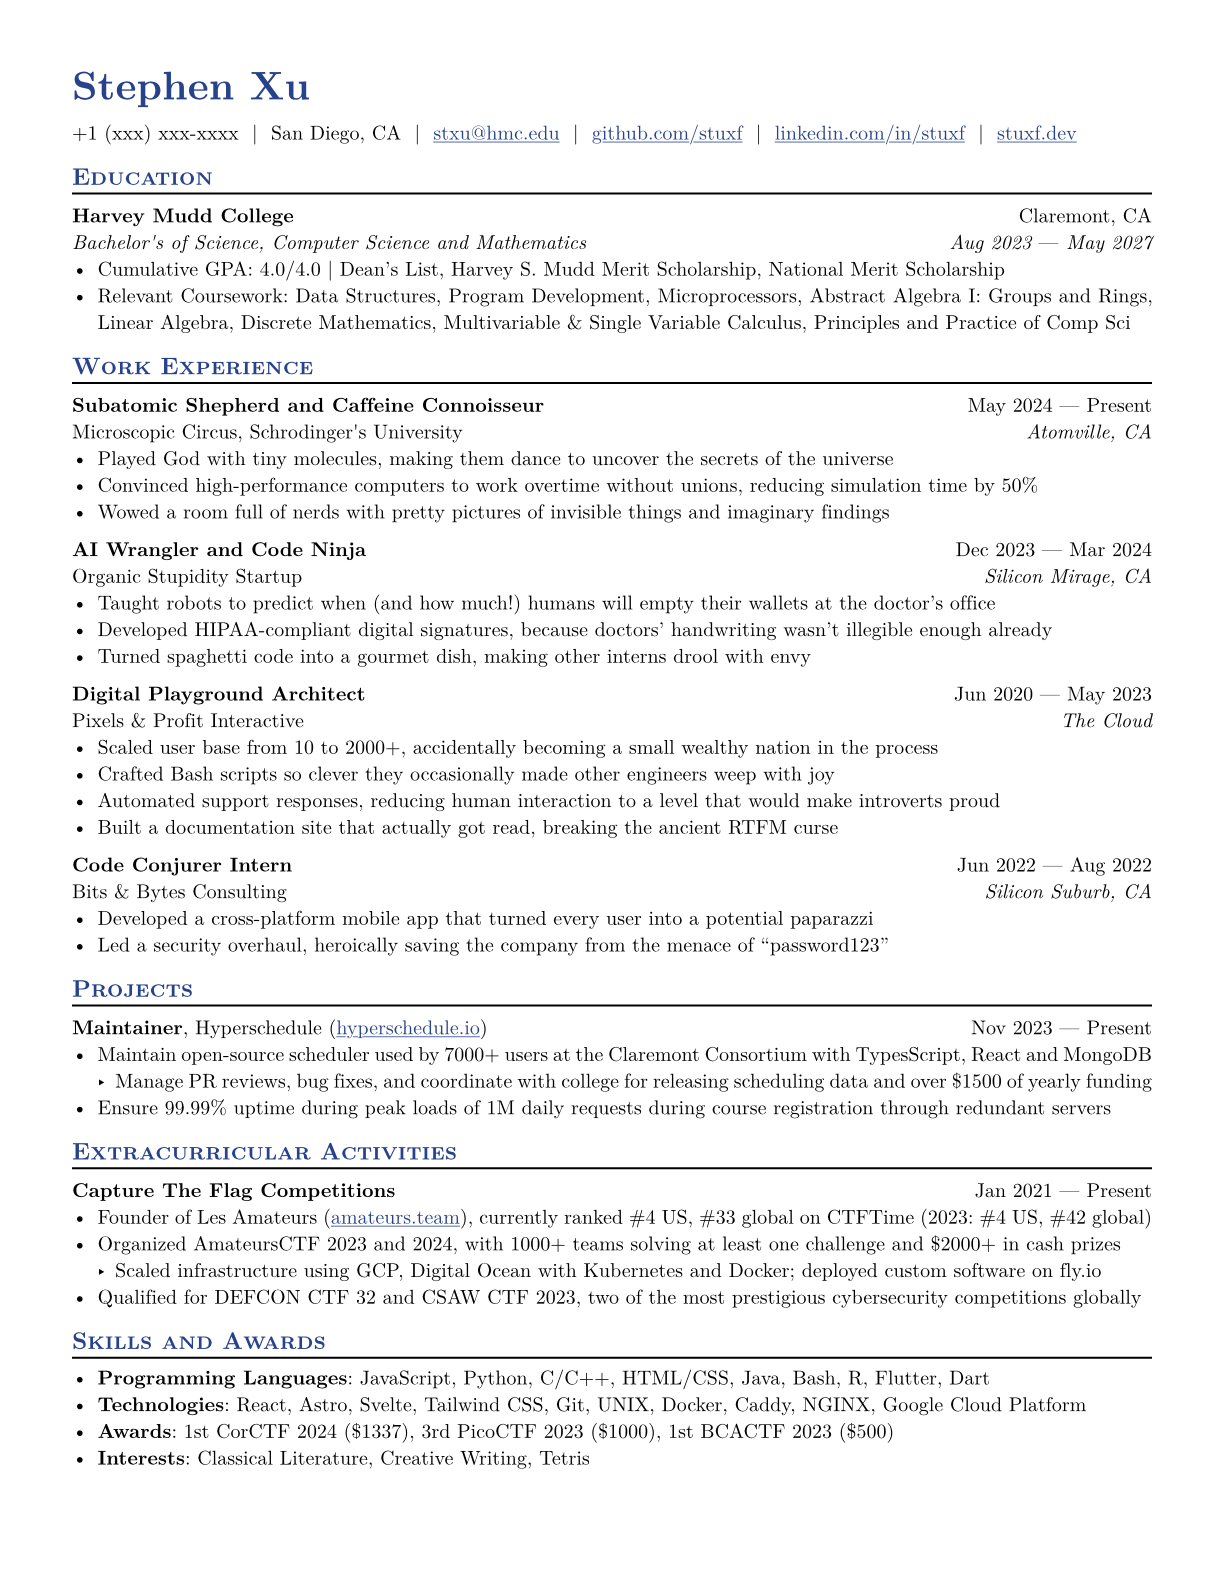
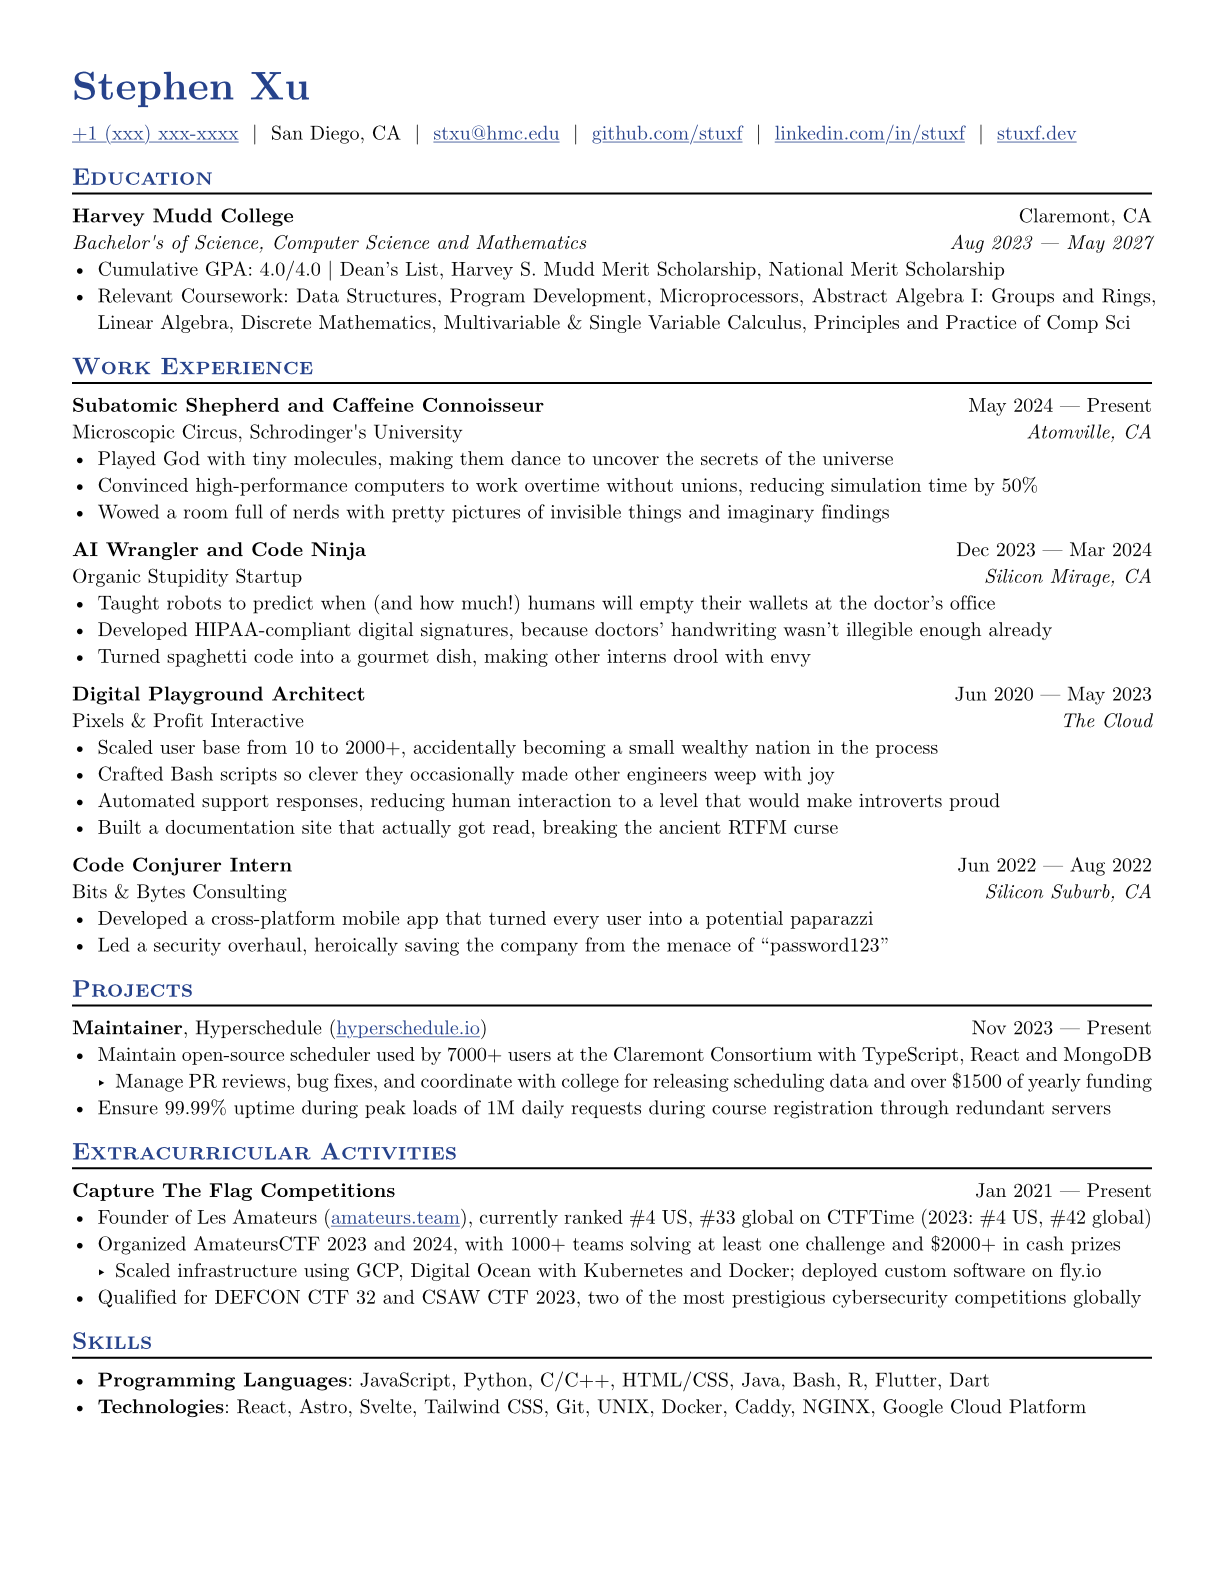
0.2.10

diff --git a/README.md b/README.md
@@ -1,6 +1,6 @@
 # Basic Resume
 
-<div align="center">Version 0.2.9</div>
+<div align="center">Version 0.2.10</div>
 
 This is a template for a simple resume. It is intended to be used as a good starting point for quickly crafting a standard resume that will properly be parsed by ATS systems. Inspiration is taken from [Jake's Resume](https://github.com/jakegut/resume) and [guided-resume-starter-cgc](https://typst.app/universe/package/guided-resume-starter-cgc/). I'm currently a college student and was unable to find a Typst resume template that fit my needs, so I wrote my own. I hope this template can be useful to others as well.
 
@@ -13,7 +13,7 @@ This is a template for a simple resume. It is intended to be used as a good star
 A barebones resume looks like this, which you can use to get started.
 
 ```typst
-#import "@preview/basic-resume:0.2.9": *
+#import "@preview/basic-resume:0.2.10": *
 
 // Put your personal information here, replacing mine
 #let name = "Stephen Xu"

diff --git a/CHANGELOG.md b/CHANGELOG.md
@@ -1,6 +1,6 @@
 # Basic Resume Changelog
 
-## Unreleased
+## [v0.2.10](https://github.com/stuxf/basic-typst-resume-template/releases/tag/v0.2.10)
 
 - Make phone numbers clickable with `tel:` links.
 - Use a text symbol for the date separator to support PDF/UA accessibility.
@@ -11,6 +11,7 @@
 - Replace the archived `typst-test` runner with Tytanic 0.4.1 for visual regression tests. Refresh the reference images for its Typst 0.15.1 renderer.
 - Make repeated packaging predictable, use the manifest's exclusions, and check the isolated packaged template before release.
 - Prepare registry submissions locally; tagged CI runs validate and upload the package without a registry credential.
+- Refresh the package thumbnail to match the initialized starter template.
 
 ## [v0.2.9](https://github.com/stuxf/basic-typst-resume-template/releases/tag/v0.2.9)
 
